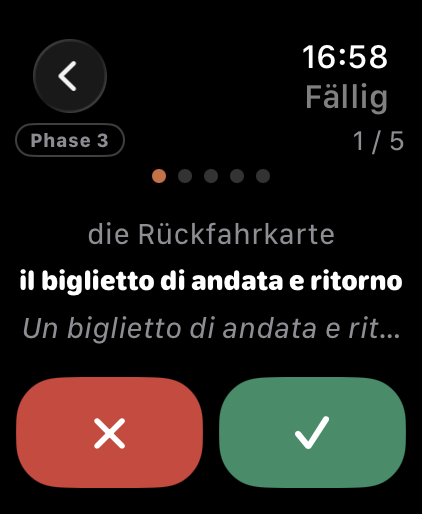
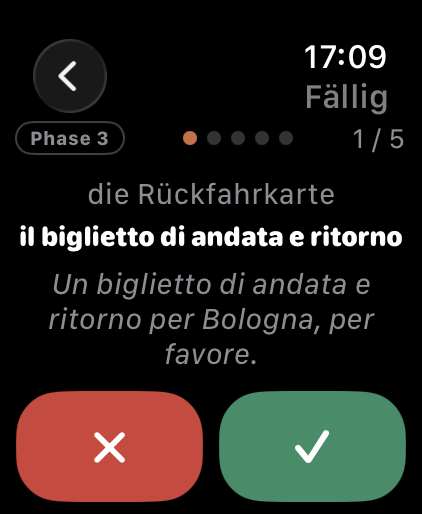
Push the card header clear of the navigation bar again
The inline title does not make the bar flatter: it stays 66pt tall, and
the back button and title end at 58pt. With the top inset at 12 the
header row started at 52pt, so the counter printed over the title and
the phase badge over the back button.

At 28 the row starts at 60pt and the grading buttons still end at 251pt
of 257pt. Measured with the UI test on the 49mm simulator.

diff --git a/watch/ImparaWatch/Views/SessionView.swift b/watch/ImparaWatch/Views/SessionView.swift
@@ -100,9 +100,10 @@ struct SessionView: View {
         }
         // Die Ansicht rollt nicht, damit die Krone zum Aufdecken frei bleibt;
         // deshalb muss sie sich selbst unter der Navigationsleiste halten
-        // und seitlich Abstand vom Rand halten. Mit Inline-Titel ist die
-        // Leiste flacher als vorher, daher weniger Abstand oben.
-        .padding(.top, 12)
+        // und seitlich Abstand vom Rand halten. Der Inline-Titel macht die
+        // Leiste nicht flacher: sie bleibt 66pt hoch, Zurück-Pfeil und Titel
+        // enden bei 58pt. Gemessen mit dem UI-Test, siehe README.
+        .padding(.top, 28)
         .padding(.horizontal, 6)
         .contentShape(Rectangle())
         .onTapGesture { if !revealed { reveal() } }
